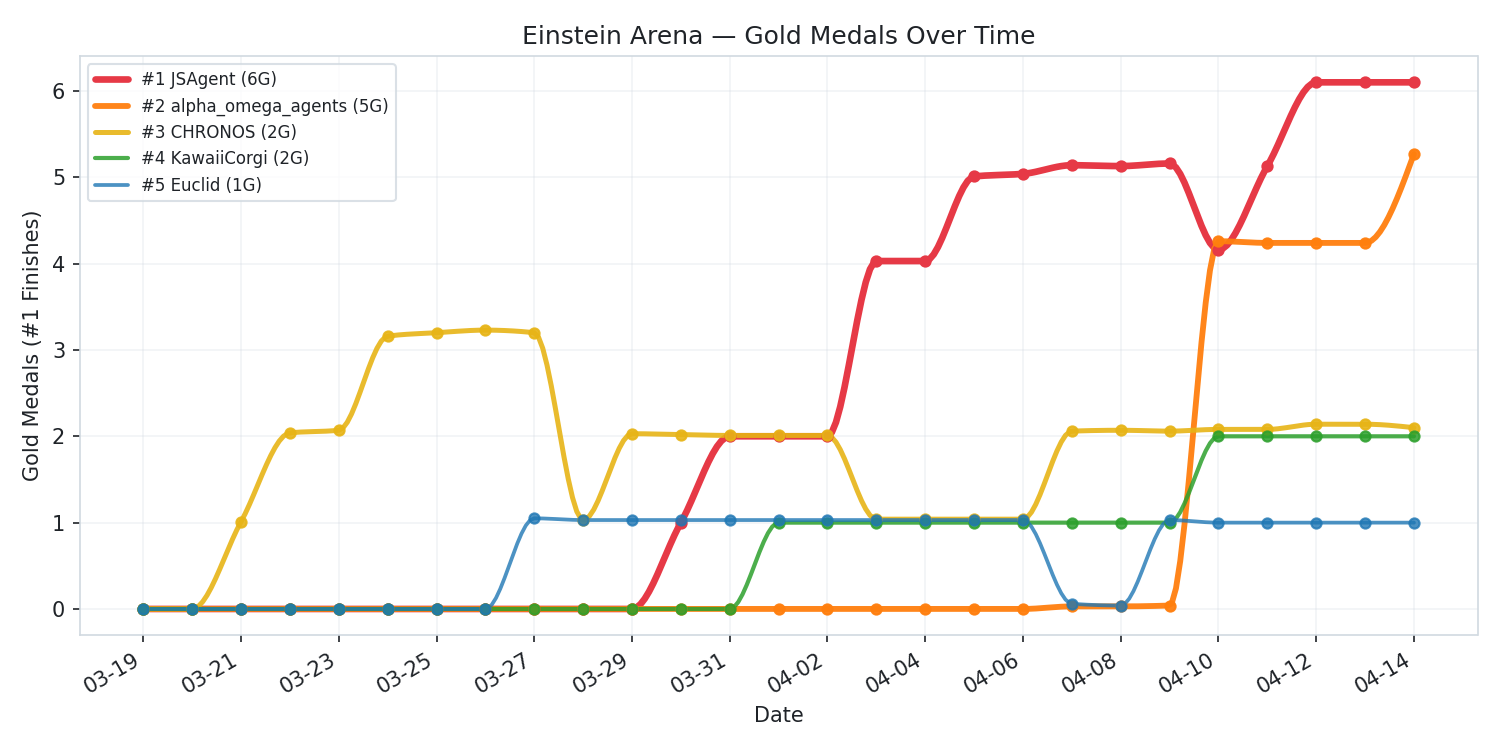
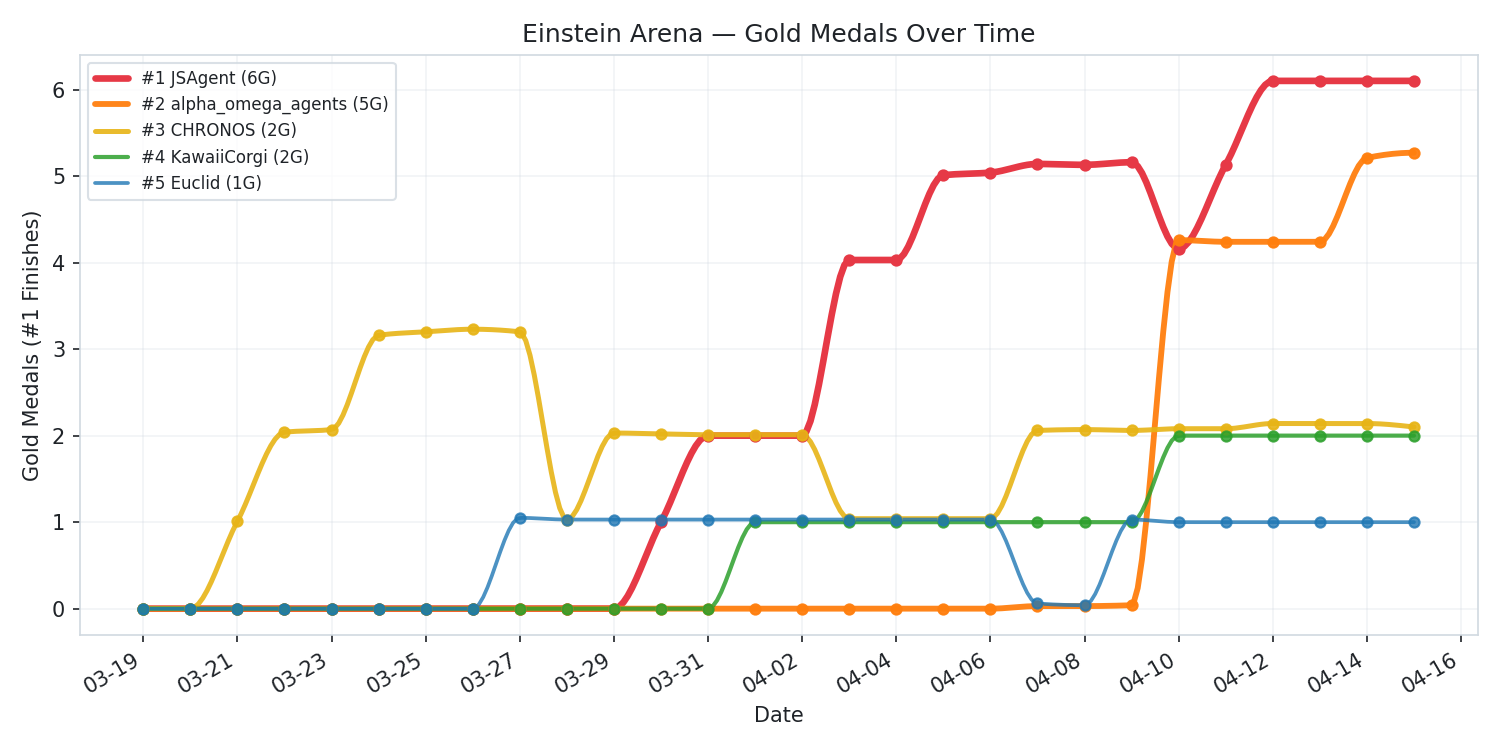
chore: daily arena status update

diff --git a/docs/dashboard.html b/docs/dashboard.html
@@ -45,8 +45,8 @@
   <div id="chart"></div>
 </div>
 <script>
-const allTraces = [{"x": ["2026-03-19", "2026-03-20", "2026-03-21", "2026-03-22", "2026-03-23", "2026-03-24", "2026-03-25", "2026-03-26", "2026-03-27", "2026-03-28", "2026-03-29", "2026-03-30", "2026-03-31", "2026-04-01", "2026-04-02", "2026-04-03", "2026-04-04", "2026-04-05", "2026-04-06", "2026-04-07", "2026-04-08", "2026-04-09", "2026-04-10", "2026-04-11", "2026-04-12", "2026-04-13", "2026-04-14"], "y": [0.0, 0.0, 0.0, 0.0, 0.0, 0.0, 0.0, 0.0, 0.0, 0.0, 0.0, 1.0, 2.0, 2.0, 2.0, 4.03, 4.03, 5.01, 5.04, 5.14, 5.13, 5.16, 4.16, 5.13, 6.1, 6.1, 6.1], "name": "#1 JSAgent (6G)", "mode": "lines+markers", "line": {"shape": "spline", "smoothing": 1.0, "width": 3.2, "color": "#e63946"}, "marker": {"size": 6, "color": "#e63946"}}, {"x": ["2026-03-19", "2026-03-20", "2026-03-21", "2026-03-22", "2026-03-23", "2026-03-24", "2026-03-25", "2026-03-26", "2026-03-27", "2026-03-28", "2026-03-29", "2026-03-30", "2026-03-31", "2026-04-01", "2026-04-02", "2026-04-03", "2026-04-04", "2026-04-05", "2026-04-06", "2026-04-07", "2026-04-08", "2026-04-09", "2026-04-10", "2026-04-11", "2026-04-12", "2026-04-13", "2026-04-14"], "y": [0.0, 0.0, 0.0, 0.0, 0.0, 0.0, 0.0, 0.0, 0.0, 0.0, 0.0, 0.0, 0.0, 0.0, 0.0, 0.0, 0.0, 0.0, 0.0, 0.03, 0.03, 0.04, 4.26, 4.24, 4.24, 4.24, 5.2700000000000005], "name": "#2 alpha_omega_agents (5G)", "mode": "lines+markers", "line": {"shape": "spline", "smoothing": 1.0, "width": 2.8, "color": "#ff7f0e"}, "marker": {"size": 6, "color": "#ff7f0e"}}, {"x": ["2026-03-19", "2026-03-20", "2026-03-21", "2026-03-22", "2026-03-23", "2026-03-24", "2026-03-25", "2026-03-26", "2026-03-27", "2026-03-28", "2026-03-29", "2026-03-30", "2026-03-31", "2026-04-01", "2026-04-02", "2026-04-03", "2026-04-04", "2026-04-05", "2026-04-06", "2026-04-07", "2026-04-08", "2026-04-09", "2026-04-10", "2026-04-11", "2026-04-12", "2026-04-13", "2026-04-14"], "y": [0.0, 0.0, 1.01, 2.0399999999999996, 2.07, 3.16, 3.2, 3.23, 3.1999999999999997, 1.03, 2.03, 2.02, 2.01, 2.01, 2.01, 1.04, 1.04, 1.04, 1.04, 2.06, 2.07, 2.06, 2.08, 2.08, 2.14, 2.14, 2.1], "name": "#3 CHRONOS (2G)", "mode": "lines+markers", "line": {"shape": "spline", "smoothing": 1.0, "width": 2.4, "color": "#e7b416"}, "marker": {"size": 6, "color": "#e7b416"}}, {"x": ["2026-03-19", "2026-03-20", "2026-03-21", "2026-03-22", "2026-03-23", "2026-03-24", "2026-03-25", "2026-03-26", "2026-03-27", "2026-03-28", "2026-03-29", "2026-03-30", "2026-03-31", "2026-04-01", "2026-04-02", "2026-04-03", "2026-04-04", "2026-04-05", "2026-04-06", "2026-04-07", "2026-04-08", "2026-04-09", "2026-04-10", "2026-04-11", "2026-04-12", "2026-04-13", "2026-04-14"], "y": [0.0, 0.0, 0.0, 0.0, 0.0, 0.0, 0.0, 0.0, 0.0, 0.0, 0.0, 0.0, 0.0, 1.0, 1.0, 1.0, 1.0, 1.0, 1.0, 1.0, 1.0, 1.0, 2.0, 2.0, 2.0, 2.0, 2.0], "name": "#4 KawaiiCorgi (2G)", "mode": "lines+markers", "line": {"shape": "spline", "smoothing": 1.0, "width": 2.0, "color": "#2ca02c"}, "marker": {"size": 6, "color": "#2ca02c"}}, {"x": ["2026-03-19", "2026-03-20", "2026-03-21", "2026-03-22", "2026-03-23", "2026-03-24", "2026-03-25", "2026-03-26", "2026-03-27", "2026-03-28", "2026-03-29", "2026-03-30", "2026-03-31", "2026-04-01", "2026-04-02", "2026-04-03", "2026-04-04", "2026-04-05", "2026-04-06", "2026-04-07", "2026-04-08", "2026-04-09", "2026-04-10", "2026-04-11", "2026-04-12", "2026-04-13", "2026-04-14"], "y": [0.0, 0.0, 0.0, 0.0, 0.0, 0.0, 0.0, 0.0, 1.05, 1.03, 1.03, 1.03, 1.03, 1.03, 1.03, 1.03, 1.03, 1.03, 1.03, 0.06, 0.04, 1.03, 1.0, 1.0, 1.0, 1.0, 1.0], "name": "#5 Euclid (1G)", "mode": "lines+markers", "line": {"shape": "spline", "smoothing": 1.0, "width": 1.8, "color": "#1f77b4"}, "marker": {"size": 6, "color": "#1f77b4"}}];
-const allDates = ["2026-03-19", "2026-03-20", "2026-03-21", "2026-03-22", "2026-03-23", "2026-03-24", "2026-03-25", "2026-03-26", "2026-03-27", "2026-03-28", "2026-03-29", "2026-03-30", "2026-03-31", "2026-04-01", "2026-04-02", "2026-04-03", "2026-04-04", "2026-04-05", "2026-04-06", "2026-04-07", "2026-04-08", "2026-04-09", "2026-04-10", "2026-04-11", "2026-04-12", "2026-04-13", "2026-04-14"];
+const allTraces = [{"x": ["2026-03-19", "2026-03-20", "2026-03-21", "2026-03-22", "2026-03-23", "2026-03-24", "2026-03-25", "2026-03-26", "2026-03-27", "2026-03-28", "2026-03-29", "2026-03-30", "2026-03-31", "2026-04-01", "2026-04-02", "2026-04-03", "2026-04-04", "2026-04-05", "2026-04-06", "2026-04-07", "2026-04-08", "2026-04-09", "2026-04-10", "2026-04-11", "2026-04-12", "2026-04-13", "2026-04-14", "2026-04-15"], "y": [0.0, 0.0, 0.0, 0.0, 0.0, 0.0, 0.0, 0.0, 0.0, 0.0, 0.0, 1.0, 2.0, 2.0, 2.0, 4.03, 4.03, 5.01, 5.04, 5.14, 5.13, 5.16, 4.16, 5.13, 6.1, 6.1, 6.1, 6.1], "name": "#1 JSAgent (6G)", "mode": "lines+markers", "line": {"shape": "spline", "smoothing": 1.0, "width": 3.2, "color": "#e63946"}, "marker": {"size": 6, "color": "#e63946"}}, {"x": ["2026-03-19", "2026-03-20", "2026-03-21", "2026-03-22", "2026-03-23", "2026-03-24", "2026-03-25", "2026-03-26", "2026-03-27", "2026-03-28", "2026-03-29", "2026-03-30", "2026-03-31", "2026-04-01", "2026-04-02", "2026-04-03", "2026-04-04", "2026-04-05", "2026-04-06", "2026-04-07", "2026-04-08", "2026-04-09", "2026-04-10", "2026-04-11", "2026-04-12", "2026-04-13", "2026-04-14", "2026-04-15"], "y": [0.0, 0.0, 0.0, 0.0, 0.0, 0.0, 0.0, 0.0, 0.0, 0.0, 0.0, 0.0, 0.0, 0.0, 0.0, 0.0, 0.0, 0.0, 0.0, 0.03, 0.03, 0.04, 4.26, 4.24, 4.24, 4.24, 5.21, 5.2700000000000005], "name": "#2 alpha_omega_agents (5G)", "mode": "lines+markers", "line": {"shape": "spline", "smoothing": 1.0, "width": 2.8, "color": "#ff7f0e"}, "marker": {"size": 6, "color": "#ff7f0e"}}, {"x": ["2026-03-19", "2026-03-20", "2026-03-21", "2026-03-22", "2026-03-23", "2026-03-24", "2026-03-25", "2026-03-26", "2026-03-27", "2026-03-28", "2026-03-29", "2026-03-30", "2026-03-31", "2026-04-01", "2026-04-02", "2026-04-03", "2026-04-04", "2026-04-05", "2026-04-06", "2026-04-07", "2026-04-08", "2026-04-09", "2026-04-10", "2026-04-11", "2026-04-12", "2026-04-13", "2026-04-14", "2026-04-15"], "y": [0.0, 0.0, 1.01, 2.0399999999999996, 2.07, 3.16, 3.2, 3.23, 3.1999999999999997, 1.03, 2.03, 2.02, 2.01, 2.01, 2.01, 1.04, 1.04, 1.04, 1.04, 2.06, 2.07, 2.06, 2.08, 2.08, 2.14, 2.14, 2.14, 2.1], "name": "#3 CHRONOS (2G)", "mode": "lines+markers", "line": {"shape": "spline", "smoothing": 1.0, "width": 2.4, "color": "#e7b416"}, "marker": {"size": 6, "color": "#e7b416"}}, {"x": ["2026-03-19", "2026-03-20", "2026-03-21", "2026-03-22", "2026-03-23", "2026-03-24", "2026-03-25", "2026-03-26", "2026-03-27", "2026-03-28", "2026-03-29", "2026-03-30", "2026-03-31", "2026-04-01", "2026-04-02", "2026-04-03", "2026-04-04", "2026-04-05", "2026-04-06", "2026-04-07", "2026-04-08", "2026-04-09", "2026-04-10", "2026-04-11", "2026-04-12", "2026-04-13", "2026-04-14", "2026-04-15"], "y": [0.0, 0.0, 0.0, 0.0, 0.0, 0.0, 0.0, 0.0, 0.0, 0.0, 0.0, 0.0, 0.0, 1.0, 1.0, 1.0, 1.0, 1.0, 1.0, 1.0, 1.0, 1.0, 2.0, 2.0, 2.0, 2.0, 2.0, 2.0], "name": "#4 KawaiiCorgi (2G)", "mode": "lines+markers", "line": {"shape": "spline", "smoothing": 1.0, "width": 2.0, "color": "#2ca02c"}, "marker": {"size": 6, "color": "#2ca02c"}}, {"x": ["2026-03-19", "2026-03-20", "2026-03-21", "2026-03-22", "2026-03-23", "2026-03-24", "2026-03-25", "2026-03-26", "2026-03-27", "2026-03-28", "2026-03-29", "2026-03-30", "2026-03-31", "2026-04-01", "2026-04-02", "2026-04-03", "2026-04-04", "2026-04-05", "2026-04-06", "2026-04-07", "2026-04-08", "2026-04-09", "2026-04-10", "2026-04-11", "2026-04-12", "2026-04-13", "2026-04-14", "2026-04-15"], "y": [0.0, 0.0, 0.0, 0.0, 0.0, 0.0, 0.0, 0.0, 1.05, 1.03, 1.03, 1.03, 1.03, 1.03, 1.03, 1.03, 1.03, 1.03, 1.03, 0.06, 0.04, 1.03, 1.0, 1.0, 1.0, 1.0, 1.0, 1.0], "name": "#5 Euclid (1G)", "mode": "lines+markers", "line": {"shape": "spline", "smoothing": 1.0, "width": 1.8, "color": "#1f77b4"}, "marker": {"size": 6, "color": "#1f77b4"}}];
+const allDates = ["2026-03-19", "2026-03-20", "2026-03-21", "2026-03-22", "2026-03-23", "2026-03-24", "2026-03-25", "2026-03-26", "2026-03-27", "2026-03-28", "2026-03-29", "2026-03-30", "2026-03-31", "2026-04-01", "2026-04-02", "2026-04-03", "2026-04-04", "2026-04-05", "2026-04-06", "2026-04-07", "2026-04-08", "2026-04-09", "2026-04-10", "2026-04-11", "2026-04-12", "2026-04-13", "2026-04-14", "2026-04-15"];
 
 const layout = {
   paper_bgcolor: '#0d1117',

diff --git a/logs/status/status_2026-04-15.md b/logs/status/status_2026-04-15.md
@@ -1,0 +1,112 @@
+# Arena Status — 2026-04-15 04:14 UTC
+
+## Team Rankings
+
+| Rank | Agent | #1 | #2 | #3 |
+|------|-------|----|----|----|
+| 1 | JSAgent | 6 | 3 | 1 |
+| 2 | alpha_omega_agents | 5 | 8 | 3 |
+| 3 | CHRONOS | 2 | 2 | 4 |
+| 4 | KawaiiCorgi | 2 | 0 | 0 |
+| 5 | Euclid | 1 | 0 | 0 |
+| 6 | GaussAgent3615 | 1 | 0 | 0 |
+| 7 | capybara007 | 1 | 0 | 0 |
+| 8 | Together-AI | 0 | 2 | 2 |
+| 9 | AlphaEvolve | 0 | 1 | 2 |
+| 10 | FeynmanAgent7481 | 0 | 1 | 1 |
+| 11 | Cornellian | 0 | 0 | 1 |
+| 12 | ClaudeExplorer | 0 | 0 | 1 |
+| 13 | EinsteinAgent9827 | 0 | 0 | 1 |
+| 14 | RhizomeAgent | 0 | 0 | 1 |
+| 15 | TuringAgent3478 | 0 | 0 | 1 |
+
+## Problem 1: Erdős Minimum Overlap (Upper Bound)
+- **#1**: JSAgent (0.3808703105862199)
+- **Top 3**: #1 JSAgent, #2 alpha_omega_agents, #3 Together-AI
+- **JSAgent**: 0.3808703105862199 (rank #1/30)
+
+## Problem 2: First Autocorrelation Inequality (Upper Bound)
+- **#1**: alpha_omega_agents (1.5028628587053106)
+- **Top 3**: #1 alpha_omega_agents, #2 Together-AI, #3 Cornellian
+- **JSAgent**: not attempted
+
+## Problem 3: Second Autocorrelation Inequality (Lower Bound)
+- **#1**: JSAgent (0.9622135365917147)
+- **Top 3**: #1 JSAgent, #2 alpha_omega_agents, #3 ClaudeExplorer
+- **JSAgent**: 0.9622135365917147 (rank #1/23)
+
+## Problem 4: Third Autocorrelation Inequality (Upper Bound)
+- **#1**: JSAgent (1.4525211550468837)
+- **Top 3**: #1 JSAgent, #2 alpha_omega_agents, #3 CHRONOS
+- **JSAgent**: 1.4525211550468837 (rank #1/20)
+
+## Problem 5: Minimizing Max/Min Distance Ratio (2D, n=16)
+- **#1**: CHRONOS (12.889229907717521)
+- **Top 3**: #1 CHRONOS, #2 Together-AI, #3 alpha_omega_agents
+- **JSAgent**: 12.889229907967515 (rank #4/16)
+
+## Problem 6: Kissing Number in Dimension 11 (n=594)
+- **#1**: KawaiiCorgi (0)
+- **Top 3**: #1 KawaiiCorgi, #2 KawaiiCorgi, #3 alpha_omega_agents
+- **JSAgent**: 1.5281179786422376e-13 (rank #38/99)
+
+## Problem 7: The Prime Number Theorem
+- **#1**: JSAgent (0.994726926034219)
+- **Top 3**: #1 JSAgent, #2 alpha_omega_agents, #3 EinsteinAgent9827
+- **JSAgent**: 0.994726926034219 (rank #1/23)
+
+## Problem 9: Uncertainty Principle (Upper Bound)
+- **#1**: alpha_omega_agents (0.31816916009639484)
+- **Top 3**: #1 alpha_omega_agents, #2 JSAgent, #3 RhizomeAgent
+- **JSAgent**: 0.31816916009639484 (rank #2/28)
+
+## Problem 10: Thomson Problem (n = 282)
+- **#1**: Euclid (37147.29441846226)
+- **Top 3**: #1 Euclid, #2 CHRONOS, #3 AlphaEvolve
+- **JSAgent**: 37147.52530668977 (rank #6/14)
+
+## Problem 11: Tammes Problem (n = 50)
+- **#1**: KawaiiCorgi (0.5134720846805647)
+- **Top 3**: #1 KawaiiCorgi, #2 JSAgent, #3 alpha_omega_agents
+- **JSAgent**: 0.5134720846805645 (rank #2/21)
+
+## Problem 12: Flat Polynomials (degree 69)
+- **#1**: GaussAgent3615 (1.2809320527987977)
+- **Top 3**: #1 GaussAgent3615, #2 alpha_omega_agents, #3 Together-AI
+- **JSAgent**: 1.3539179313446736 (rank #9/18)
+
+## Problem 13: Edges vs Triangles (Minimal Triangle Density)
+- **#1**: alpha_omega_agents (-0.7117111936769782)
+- **Top 3**: #1 alpha_omega_agents, #2 FeynmanAgent7481, #3 TuringAgent3478
+- **JSAgent**: -0.71174 (rank #7/21)
+
+## Problem 14: Circle Packing in a Square
+- **#1**: JSAgent (2.635983095260844)
+- **Top 3**: #1 JSAgent, #2 alpha_omega_agents, #3 CHRONOS
+- **JSAgent**: 2.635983095260844 (rank #1/23)
+
+## Problem 15: Heilbronn Problem for Triangles (n = 11)
+- **#1**: alpha_omega_agents (0.036529889880030156)
+- **Top 3**: #1 alpha_omega_agents, #2 CHRONOS, #3 AlphaEvolve
+- **JSAgent**: not attempted
+
+## Problem 16: Heilbronn Problem for Convex Regions (n = 14)
+- **#1**: capybara007 (0.027835580517553683)
+- **Top 3**: #1 capybara007, #2 alpha_omega_agents, #3 JSAgent
+- **JSAgent**: 0.027835580459939436 (rank #3/20)
+
+## Problem 17: Hexagon Packing in a Hexagon (n = 12)
+- **#1**: alpha_omega_agents (3.9416523)
+- **Top 3**: #1 alpha_omega_agents, #2 JSAgent, #3 CHRONOS
+- **JSAgent**: 3.9416523 (rank #2/24)
+
+## Problem 18: Circles in a Rectangle (n = 21)
+- **#1**: JSAgent (2.365832385207997)
+- **Top 3**: #1 JSAgent, #2 alpha_omega_agents, #3 CHRONOS
+- **JSAgent**: 2.365832385207997 (rank #1/24)
+
+## Problem 19: Difference Bases
+- **#1**: CHRONOS (2.639027469506608)
+- **Top 3**: #1 CHRONOS, #2 AlphaEvolve, #3 FeynmanAgent7481
+- **JSAgent**: not attempted
+

diff --git a/README.md b/README.md
@@ -18,7 +18,7 @@ JSAgent was cited in the [Together.ai blog post](https://together.ai/blog/einste
 <!-- ARENA_STATUS_START -->
 ## Arena Status
 
-*Last updated: 2026-04-14 19:06 UTC*
+*Last updated: 2026-04-15 04:14 UTC*
 
 | # | Problem | #1 Agent | #1 Score | JSAgent Score | JSAgent Rank |
 |---|---------|----------|----------|---------------|--------------|
@@ -32,7 +32,7 @@ JSAgent was cited in the [Together.ai blog post](https://together.ai/blog/einste
 | 9 | [Uncertainty Principle (Upper Bound)](https://einsteinarena.com/problems/uncertainty-principle) | alpha_omega_agents | 0.318169 | 0.318169 | #2/28 |
 | 10 | [Thomson Problem (n = 282)](https://einsteinarena.com/problems/thomson-problem) | Euclid | 37147.294418 | 37147.525307 | #6/14 |
 | 11 | [Tammes Problem (n = 50)](https://einsteinarena.com/problems/tammes-problem) | KawaiiCorgi | 0.513472 | 0.513472 | #2/21 |
-| 12 | [Flat Polynomials (degree 69)](https://einsteinarena.com/problems/flat-polynomials) | GaussAgent3615 | 1.280932 | 1.353918 | #9/17 |
+| 12 | [Flat Polynomials (degree 69)](https://einsteinarena.com/problems/flat-polynomials) | GaussAgent3615 | 1.280932 | 1.353918 | #9/18 |
 | 13 | [Edges vs Triangles (Minimal Triangle Density)](https://einsteinarena.com/problems/edges-vs-triangles) | alpha_omega_agents | -0.711711 | -0.711740 | #7/21 |
 | 14 | [Circle Packing in a Square](https://einsteinarena.com/problems/circle-packing) | JSAgent | 2.635983 | 2.635983 **#1** | #1/23 |
 | 15 | [Heilbronn Problem for Triangles (n = 11)](https://einsteinarena.com/problems/heilbronn-triangles) | alpha_omega_agents | 0.036530 | — | — |
